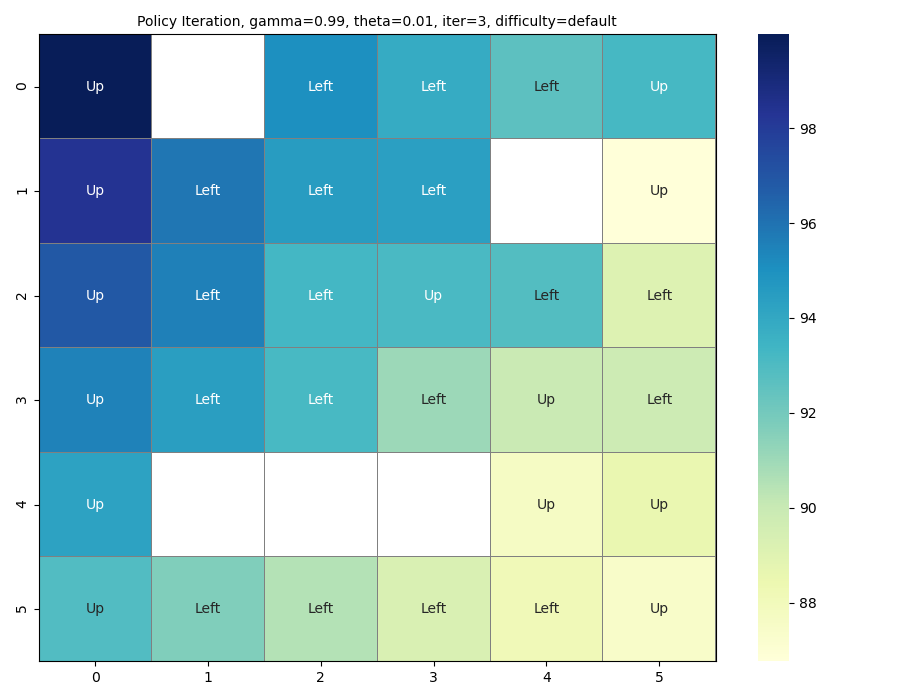
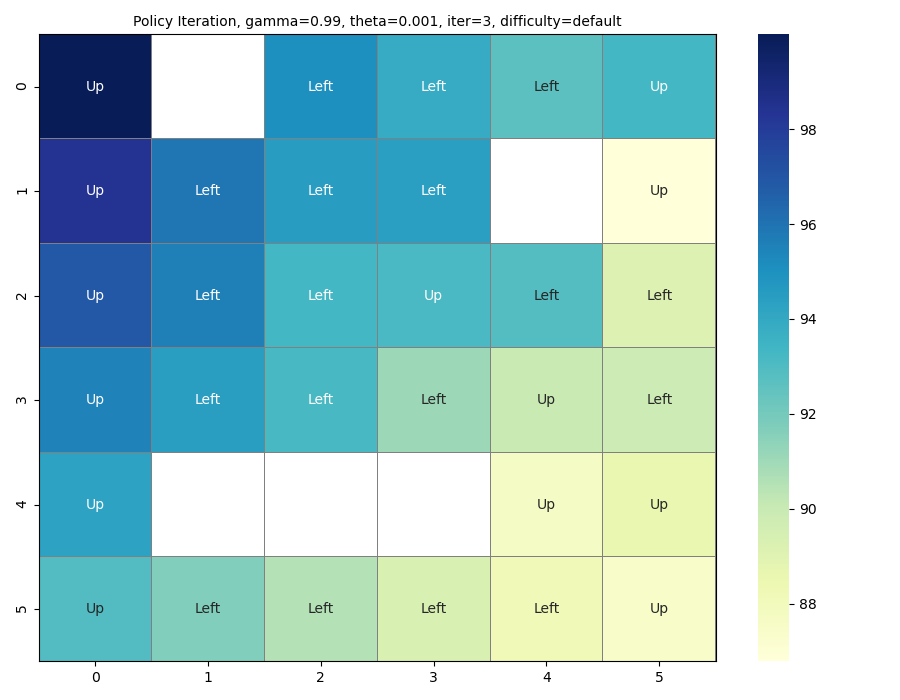
added more flags for theta

diff --git a/main.py b/main.py
@@ -5,20 +5,21 @@ import numpy as np
 import argparse
 
 parser = argparse.ArgumentParser()
-parser.add_argument('--difficulty', default='default')
-parser.add_argument('--gamma', default=0.99)
-parser.add_argument('--theta', default=0.01)
+parser.add_argument('--difficulty', default='default', type=str)
+parser.add_argument('--gamma', default=0.99, type=float)
+parser.add_argument('--vtheta', default=0.01, type=float)
+parser.add_argument('--ptheta', default=0.01, type=float)
 
 args = parser.parse_args()
 
 env = Maze(args.difficulty)
 
 learner = ValueIterationLearner(env=env)
-learner.value_iteration(args.gamma, args.theta)
-learner.plot_value(save_path='visualisations/value_iteration_values_{}.png'.format(env.difficulty))
+learner.value_iteration(args.gamma, args.vtheta)
+learner.plot_value(save_path='visualisations/value_iteration_utilities_{}.png'.format(env.difficulty))
 learner.visualise_policy(save_path='visualisations/value_iteration_policy_{}.png'.format(env.difficulty))
 
 learner = PolicyIterationLearner(env=env)
-learner.policy_iteration(args.gamma, args.theta)
+learner.policy_iteration(args.gamma, args.ptheta)
 learner.plot_value(save_path='visualisations/policy_iteration_utilities_{}.png'.format(env.difficulty))
 learner.visualise_policy(save_path='visualisations/policy_iteration_policy_{}.png'.format(env.difficulty))
